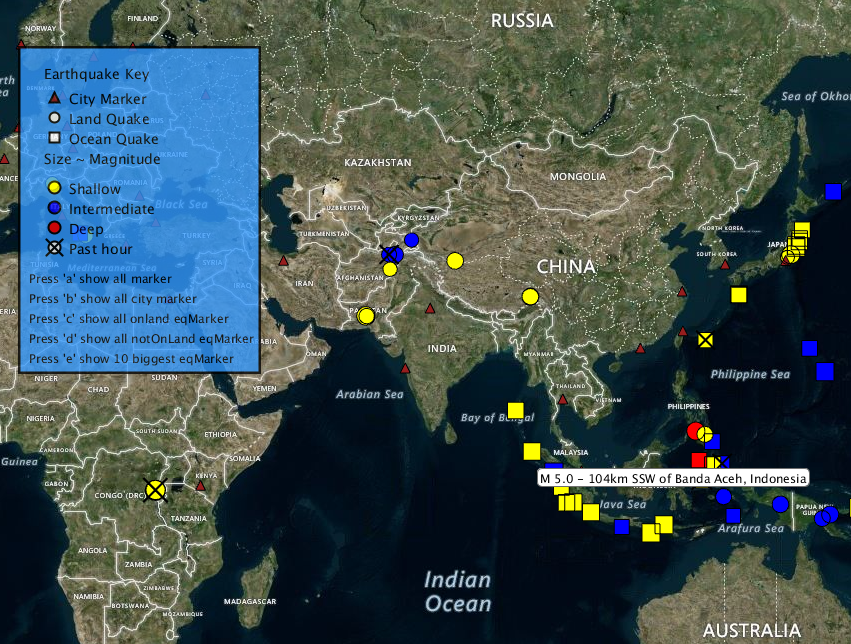
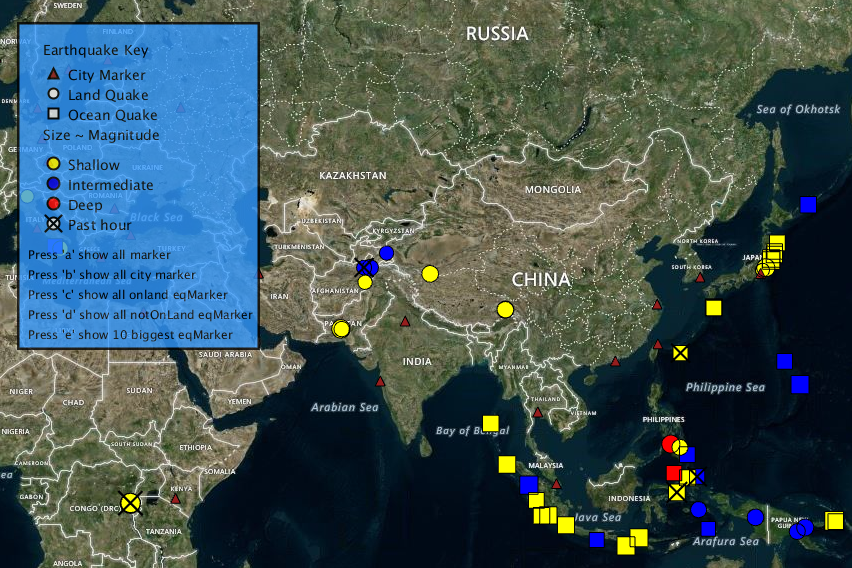
add

diff --git a/README.md b/README.md
@@ -7,3 +7,5 @@
 我的主要任务是使用UnfoldingMap进行绘图，从earthquake.usgs.gov获取实时数据，绘制数据并支持键盘交互
 
 ![alt text](https://github.com/Arthur-Lanc/UCSDUnfoldingMaps/blob/master/earthquake_allmarker.png)
+
+![alt text](https://github.com/Arthur-Lanc/UCSDUnfoldingMaps/blob/master/earthquake_citymarker.png)
